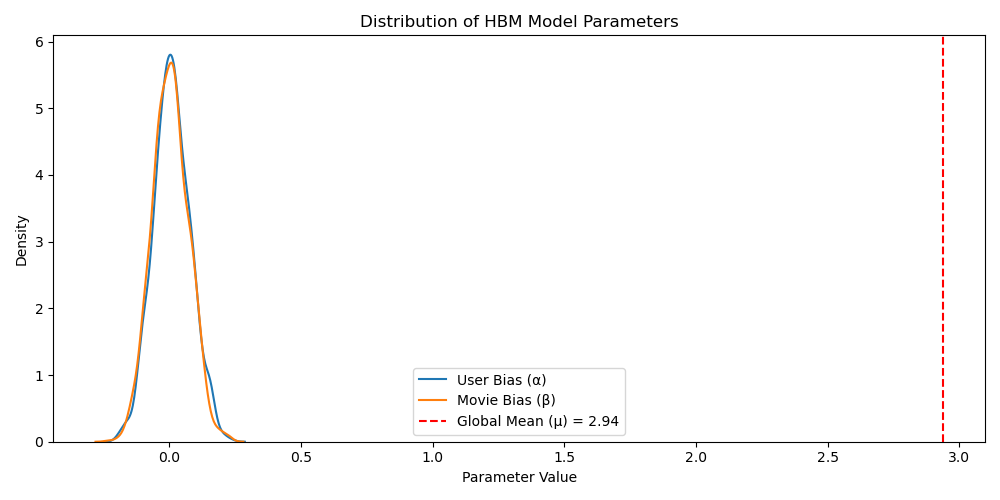
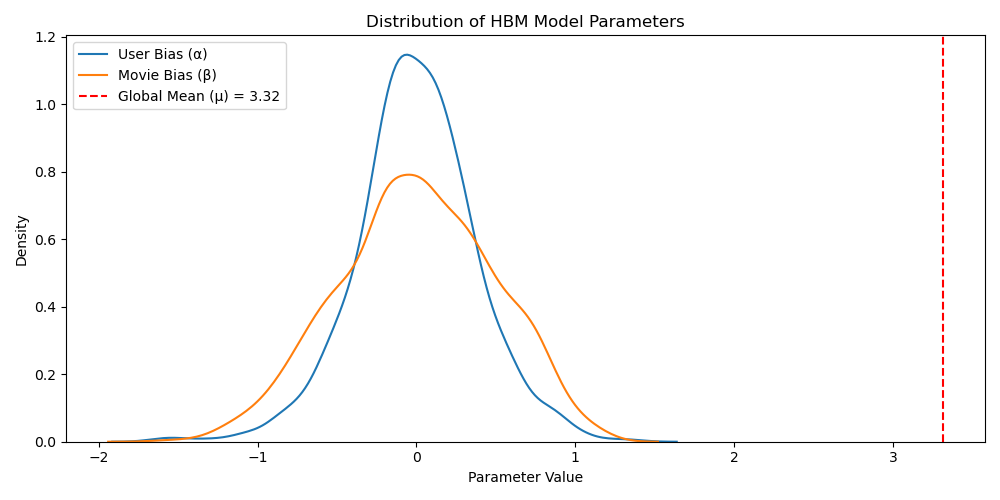
Update HBM model fitting to use MCMC with new visualization and reporting features

diff --git a/recommender_viz.py b/recommender_viz.py
@@ -1,0 +1,116 @@
+import pandas as pd
+import numpy as np
+import matplotlib.pyplot as plt
+import seaborn as sns
+
+class BaseRecommenderReporter:
+    """
+    Base class for visualizing and reporting results of recommender system models.
+    Usage:
+        reporter = BaseRecommenderReporter(results)
+        reporter.plot_all()
+        reporter.print_stats()
+    """
+    def __init__(self, results):
+        """
+        Args:
+            results (dict): Contains 'actuals', 'predictions', and metrics.
+        """
+        self.results = results
+
+    def plot_all(self, save_path='recommender_results.png'):
+        """Plot evaluation results (universal for all models)."""
+        print("\nGenerating universal plots...")
+        fig = plt.figure(figsize=(15, 5))
+        gs = fig.add_gridspec(1, 3)
+
+        # Plot 1: Actual vs Predicted
+        ax1 = fig.add_subplot(gs[0, 0])
+        ax1.scatter(self.results['actuals'], self.results['predictions'], alpha=0.5)
+        ax1.plot([0, 5], [0, 5], 'r--')
+        ax1.set_xlabel('Actual Ratings')
+        ax1.set_ylabel('Predicted Ratings')
+        ax1.set_title('Actual vs Predicted Ratings')
+
+        # Plot 2: Error Distribution
+        ax2 = fig.add_subplot(gs[0, 1])
+        errors = np.array(self.results['predictions']) - np.array(self.results['actuals'])
+        sns.histplot(errors, kde=True, ax=ax2)
+        ax2.set_xlabel('Prediction Error')
+        ax2.set_ylabel('Count')
+        ax2.set_title('Distribution of Prediction Errors')
+
+        # Plot 3: Rating Distribution
+        ax3 = fig.add_subplot(gs[0, 2])
+        sns.histplot(self.results['actuals'], kde=True, ax=ax3, label='Actual')
+        sns.histplot(self.results['predictions'], kde=True, ax=ax3, label='Predicted')
+        ax3.set_xlabel('Rating')
+        ax3.set_ylabel('Count')
+        ax3.set_title('Distribution of Ratings')
+        ax3.legend()
+
+        plt.tight_layout()
+        plt.savefig(save_path)
+        plt.close()
+
+    def print_stats(self):
+        """Print universal evaluation metrics."""
+        print("\nUniversal Evaluation Metrics:")
+        if 'mse' in self.results:
+            print(f"MSE: {self.results['mse']:.4f}")
+        if 'rmse' in self.results:
+            print(f"RMSE: {self.results['rmse']:.4f}")
+        if 'mae' in self.results:
+            print(f"MAE: {self.results['mae']:.4f}")
+
+class HBMRecommenderReporter(BaseRecommenderReporter):
+    """
+    Reporter for HBM models, adds parameter distribution plots and statistics.
+    Usage:
+        reporter = HBMRecommenderReporter(model, movies, results)
+        reporter.plot_all()
+        reporter.print_stats()
+    """
+    def __init__(self, model, movies, results):
+        super().__init__(results)
+        self.model = model
+        self.movies = movies
+        self.trace = model.trace
+        self.mu_mean = self.trace.posterior['mu'].mean(dim=("chain", "draw")).values
+        self.alpha_mean = self.trace.posterior['alpha'].mean(dim=("chain", "draw")).values
+        self.beta_mean = self.trace.posterior['beta'].mean(dim=("chain", "draw")).values
+
+    def plot_all(self, save_path='hbm_results.png'):
+        """Plot universal and HBM-specific results."""
+        # First plot universal
+        super().plot_all(save_path=save_path)
+        # Then add HBM-specific parameter plot
+        print("Adding HBM parameter distribution plot...")
+        fig = plt.figure(figsize=(10, 5))
+        ax = fig.add_subplot(111)
+        sns.kdeplot(data=self.alpha_mean, ax=ax, label='User Bias (α)')
+        sns.kdeplot(data=self.beta_mean, ax=ax, label='Movie Bias (β)')
+        ax.axvline(x=self.mu_mean, color='r', linestyle='--', label=f'Global Mean (μ) = {self.mu_mean:.2f}')
+        ax.set_xlabel('Parameter Value')
+        ax.set_ylabel('Density')
+        ax.set_title('Distribution of HBM Model Parameters')
+        ax.legend()
+        plt.tight_layout()
+        plt.savefig('hbm_param_results.png')
+        plt.close()
+
+    def print_stats(self):
+        super().print_stats()
+        print("\nHBM Model Parameter Statistics:")
+        print(f"Global Mean (μ): {self.mu_mean:.3f}")
+        print(f"User Bias (α) - Mean: {np.mean(self.alpha_mean):.3f}, Std: {np.std(self.alpha_mean):.3f}")
+        print(f"Movie Bias (β) - Mean: {np.mean(self.beta_mean):.3f}, Std: {np.std(self.beta_mean):.3f}")
+        movie_bias = pd.DataFrame({
+            'movieId': list(self.model.movie_map.keys()),
+            'bias': self.beta_mean
+        })
+        movie_bias = movie_bias.merge(self.movies[['movieId', 'title']], on='movieId')
+        print("\nTop 5 Movies by Positive Bias:")
+        print(movie_bias.sort_values('bias', ascending=False).head().to_string())
+        print("\nTop 5 Movies by Negative Bias:")
+        print(movie_bias.sort_values('bias').head().to_string()) 

diff --git a/hbm.py b/hbm.py
@@ -70,16 +70,18 @@ class HierarchicalBayesianRecommender:
         movie_ratings = self.ratings_df[self.ratings_df['midx'] == m_idx]
         return movie_ratings
     
-    def fit(self, n_iter=100, n_samples=100):
+    def fit(self, n_samples=1000, tune=1000):
         """
-        Fit the hierarchical Bayesian model
+        Fit the hierarchical Bayesian model using MCMC (NUTS)
         
         Parameters:
         -----------
-        n_iter : int
-            Number of iterations for ADVI
+        n_samples : int
+            Number of posterior samples to draw
+        tune : int
+            Number of tuning steps
         """
-        print("Fitting model...")
+        print("Fitting model with MCMC...")
         with pm.Model() as self.model:
             # Level 3: Hyperpriors
             sigma_alpha = pm.HalfNormal('sigma_alpha', sigma=10)
@@ -97,15 +99,15 @@ class HierarchicalBayesianRecommender:
                      sigma=sigma,
                      observed=self.ratings_df['rating'].values)
             
-            # Use ADVI for faster inference
-            self.approx = pm.fit(
-                method='advi',
-                n=n_iter,
-                progressbar=False
+            # Use MCMC (NUTS) for inference
+            self.trace = pm.sample(
+                draws=n_samples,
+                tune=tune,
+                chains=3,
+                target_accept=0.9,
+                progressbar=True,
+                return_inferencedata=True
             )
-            
-            # Sample from posterior
-            self.trace = self.approx.sample(n_samples)
         print("Model fitting completed.")
     
     def predict(self, user_id, movie_id):
@@ -126,7 +128,7 @@ class HierarchicalBayesianRecommender:
         float
             Predicted rating
         """
-        if self.model is None or self.approx is None:
+        if not self.is_fitted:
             raise ValueError("Model must be fitted before making predictions")
             
         if user_id not in self.user_map or movie_id not in self.movie_map:
@@ -167,7 +169,7 @@ class HierarchicalBayesianRecommender:
         list
             List of (movie_id, score) tuples
         """
-        if self.model is None or self.approx is None:
+        if not self.is_fitted:
             raise ValueError("Model must be fitted before making recommendations")
             
         if user_id not in self.user_map:
@@ -190,3 +192,7 @@ class HierarchicalBayesianRecommender:
         # Sort and return top-N
         predictions.sort(key=lambda x: x[1], reverse=True)
         return predictions[:n_recommendations]
+    
+    @property
+    def is_fitted(self):
+        return self.model is not None and self.trace is not None

diff --git a/test_hbm.py b/test_hbm.py
@@ -88,7 +88,7 @@ def main():
     
     # Fit model
     print("\nFitting model...")
-    model.fit(n_iter=100)
+    model.fit()
     
     # Evaluate model
     print("\nEvaluating model...")
